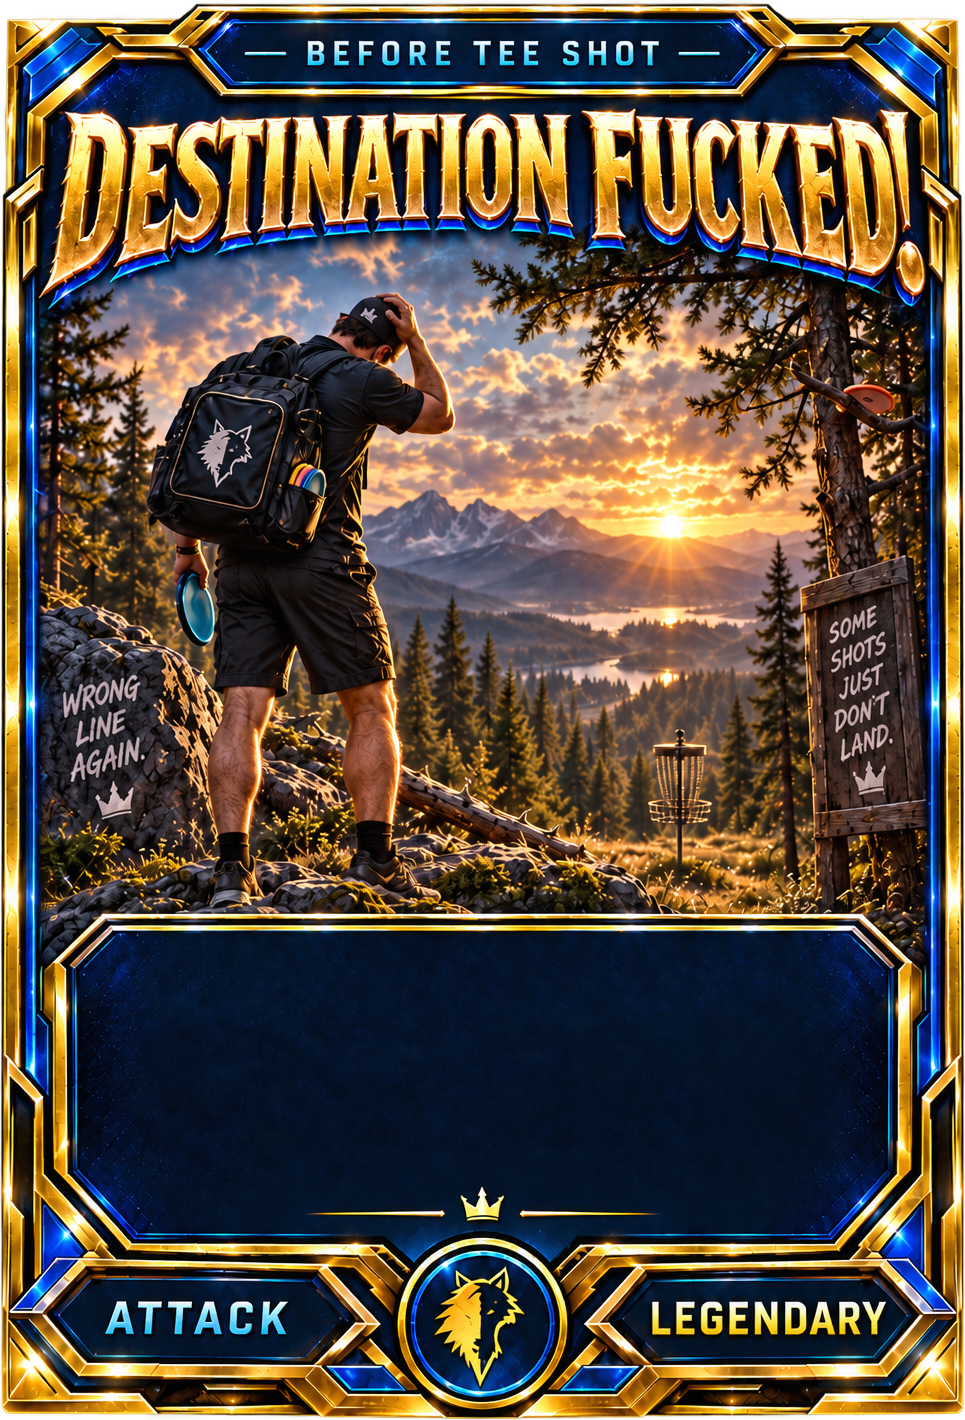
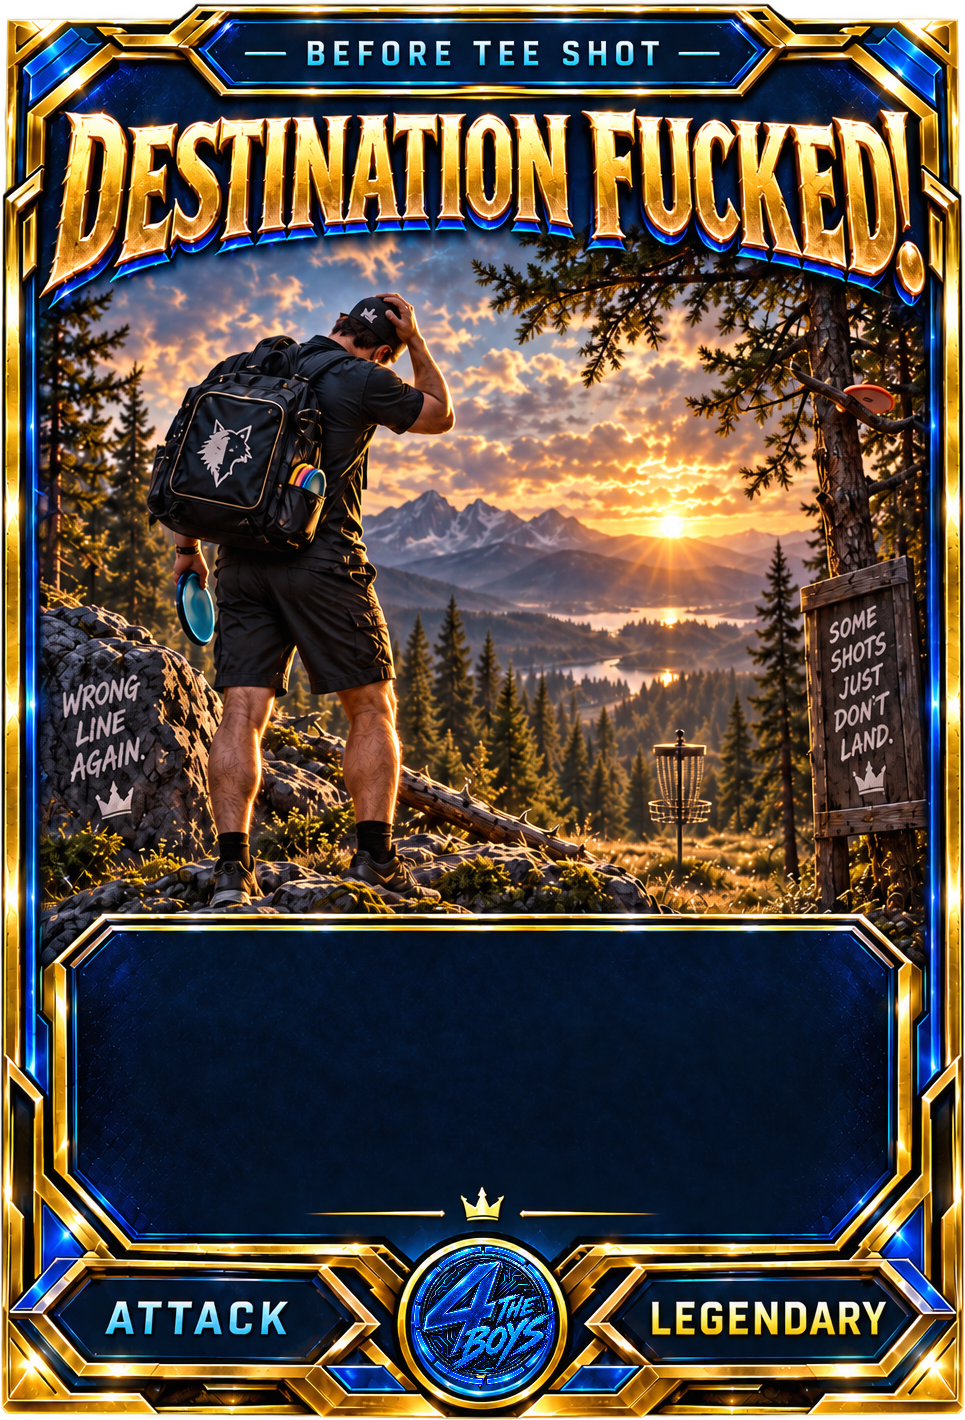
The 4 THE BOYS badge takes the wolf's place on DESTINATION FUCKED!
The wolf medallion belongs to LONE WOLF!. On a card about throwing your
drive into the trees it was just the same badge again, and nobody had
noticed it was saying anything.

Sized to sit inside the gold housing the wolf was in, so the frame is
untouched and the badge reads as a coin in its bezel.

tools/overlay.js does the compositing — bilinear on the way down, so the
logo's ring stays clean at a seventh of its size.

Changed region(s): [[0.4352, 0.8676, 0.5907, 0.9915]]

diff --git a/tools/overlay.js b/tools/overlay.js
@@ -1,0 +1,61 @@
+/*
+ * Lays one PNG over another, scaled and centred, straight alpha.
+ *
+ *   node tools/overlay.js <base.png> <over.png> <cx> <cy> <size> [out.png]
+ *
+ * Used to swap the badge on a painted card — the wolf medallion on
+ * DESTINATION FUCKED! for the 4 THE BOYS logo. Write to a separate out.png
+ * first and look at it; overwriting the card in place is hard to undo.
+ *
+ * Bilinear on the way down so a big logo shrunk onto a badge keeps its edges.
+ */
+const png = require("./png.js");
+
+const [basePath, overPath, cxs, cys, ds, outPath] = process.argv.slice(2);
+const cx = Number(cxs), cy = Number(cys), D = Number(ds);
+const out = outPath || basePath;
+
+const base = png.read(basePath);
+const over = png.read(overPath);
+if (base.channels !== 4) throw new Error("base has no alpha channel");
+
+const oa = (x, y, c) => {
+  const i = (y * over.width + x) * over.channels;
+  return c === 3 && over.channels < 4 ? 255 : over.data[i + c];
+};
+/* One channel of the overlay at a fractional position, mixed from the four
+   pixels around it — nearest-neighbour would leave the logo's ring jagged. */
+function sample(fx, fy, c) {
+  const x0 = Math.floor(fx), y0 = Math.floor(fy);
+  const x1 = Math.min(over.width - 1, x0 + 1), y1 = Math.min(over.height - 1, y0 + 1);
+  if (x0 < 0 || y0 < 0 || x0 >= over.width || y0 >= over.height) return 0;
+  const tx = fx - x0, ty = fy - y0;
+  const top = oa(x0, y0, c) * (1 - tx) + oa(x1, y0, c) * tx;
+  const bot = oa(x0, y1, c) * (1 - tx) + oa(x1, y1, c) * tx;
+  return top * (1 - ty) + bot * ty;
+}
+
+const left = Math.round(cx - D / 2), top = Math.round(cy - D / 2);
+const scale = over.width / D;
+let touched = 0;
+for (let y = 0; y < D; y++) {
+  const by = top + y;
+  if (by < 0 || by >= base.height) continue;
+  for (let x = 0; x < D; x++) {
+    const bx = left + x;
+    if (bx < 0 || bx >= base.width) continue;
+    const fx = (x + 0.5) * scale - 0.5, fy = (y + 0.5) * (over.height / D) - 0.5;
+    const a = sample(fx, fy, 3) / 255;
+    if (a <= 0.002) continue;
+    const i = (by * base.width + bx) * 4;
+    for (let c = 0; c < 3; c++) {
+      base.data[i + c] = Math.round(sample(fx, fy, c) * a + base.data[i + c] * (1 - a));
+    }
+    // The card underneath is solid here, so it stays solid.
+    base.data[i + 3] = Math.round(255 * a + base.data[i + 3] * (1 - a));
+    touched++;
+  }
+}
+png.write(out, base);
+console.log("laid " + overPath.split(/[\\/]/).pop() + " over " + basePath.split(/[\\/]/).pop() +
+  " at " + cx + "," + cy + " across " + D + "px — " + touched + " pixels");

diff --git a/docs/index.html b/docs/index.html
@@ -1178,7 +1178,7 @@ applyCharacterNames();
  * plus the time it was built. Shown at the foot of the menu and of Settings, so
  * the group can hold two phones side by side and see who needs to reload.
  */
-var APP_VERSION = "v1.292 · 6 Sep 14:30";
+var APP_VERSION = "v1.293 · 6 Sep 14:36";
 function versionLine() {
   // Just the number on screen — the full build stamp stays in APP_VERSION for
   // the lobby's stale-phone check. Opening the app fetches fresh anyway.

diff --git a/docs/sw.js b/docs/sw.js
@@ -1,6 +1,6 @@
 /* Generated by web/build.js — do not edit. */
-const PAGE_CACHE = "chainreaction-page-2564e9061679";
-const ASSET_CACHE = "chainreaction-assets-2980bb1d9d70";
+const PAGE_CACHE = "chainreaction-page-84a7c57a633a";
+const ASSET_CACHE = "chainreaction-assets-b08570692acf";
 const PAGE_FILES = [
   "./",
   "index.html",

diff --git a/tools/README.md b/tools/README.md
@@ -85,3 +85,12 @@ for the card's words, and records both.
 Writes `drawable-nodpi/card_NN.png` and an entry in `web/art-boxes.json`. The
 trim matters because the tier glow is cast from the picture's own shape, so it
 has to sit against the painted edge rather than against a transparent surround.
+
+## overlay.js
+
+Lays one PNG over another, scaled and centred, straight alpha.
+
+    node tools/overlay.js <base.png> <over.png> <cx> <cy> <size> [out.png]
+
+For swapping a badge on a painted card. Give an `out.png` and look at the result
+before overwriting the card itself.
